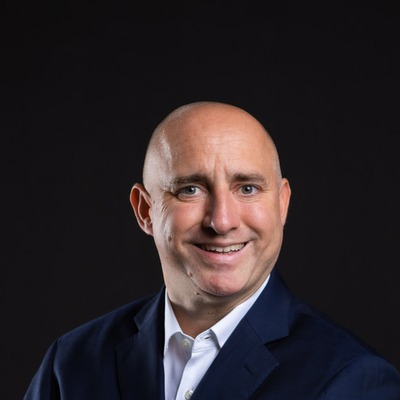
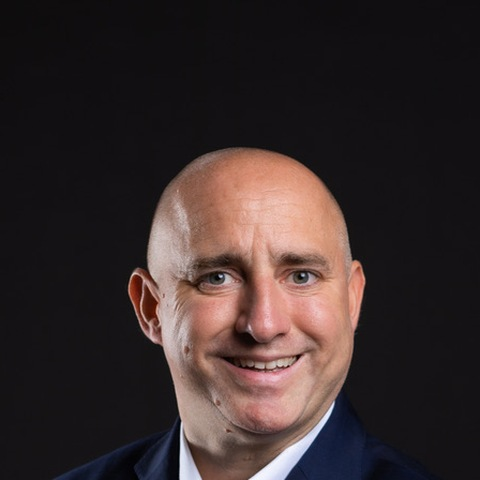
Add files via upload

Changed region(s): [[0.21, 0.24, 1.0, 1.0], [0.06, 0.78, 0.3, 1.0]]

diff --git a/analyse-call/index.html b/analyse-call/index.html
@@ -474,7 +474,7 @@ em{font-style:italic}
         <div class="card rv" style="padding:24px">
           <div style="display:flex;gap:14px;align-items:center">
             <img src="/avatar.jpg" alt="Stefan Bründl" width="56" height="56" loading="lazy"
-                 style="width:52px;height:52px;border-radius:50%;object-fit:cover;border:2px solid var(--pale)">
+                 style="width:58px;height:58px;border-radius:50%;object-fit:cover;border:2px solid var(--pale)">
             <div>
               <b style="display:block;font-size:15px;color:var(--navy)">Stefan Bründl</b>
               <span style="font-size:13px;color:var(--muted)">Gründer LeadSimply</span>
